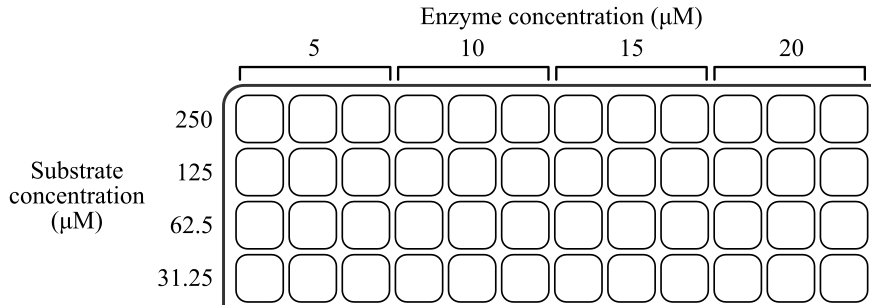
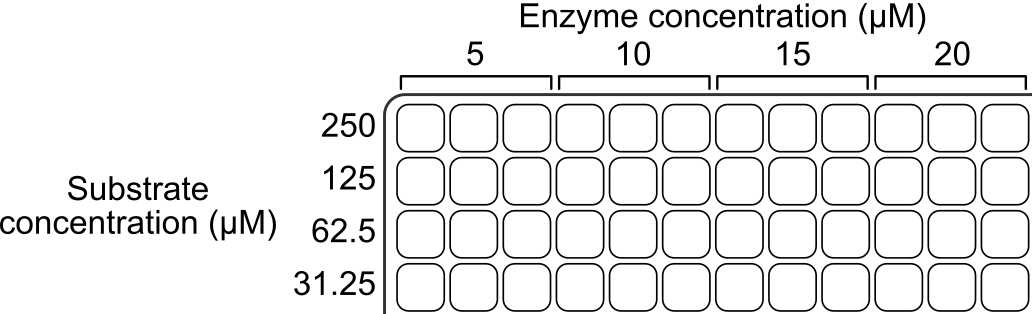
Moved bradford from protein to assays

diff --git a/docs/protein.rst b/docs/protein.rst
@@ -13,7 +13,5 @@ Revive bacteria from glycerol stock > small scale culture > large scale culture 
    protein/expression
    protein/purification
    protein/sds_page   
-   protein/bca
-   protein/bradford
    protein/estimate_protein_weight
    protein/protein_items

diff --git a/docs/assays/protease_activity.rst b/docs/assays/protease_activity.rst
@@ -70,4 +70,4 @@ S = Sample, B = Blank, m = Gradient of product (AMC) standard curve, t = Time of
 * After getting the protease optimisation curve, can proceed to do the substrate optimisation curve. 
 
 Reference
----
+----

diff --git a/docs/assays.rst b/docs/assays.rst
@@ -8,6 +8,7 @@ Assays
    assays/plaque
    assays/antiviral
    assays/virus_propagation
+   assays/bradford
    assays/product_std
    assays/protease_activity
    assays/prot_opt
